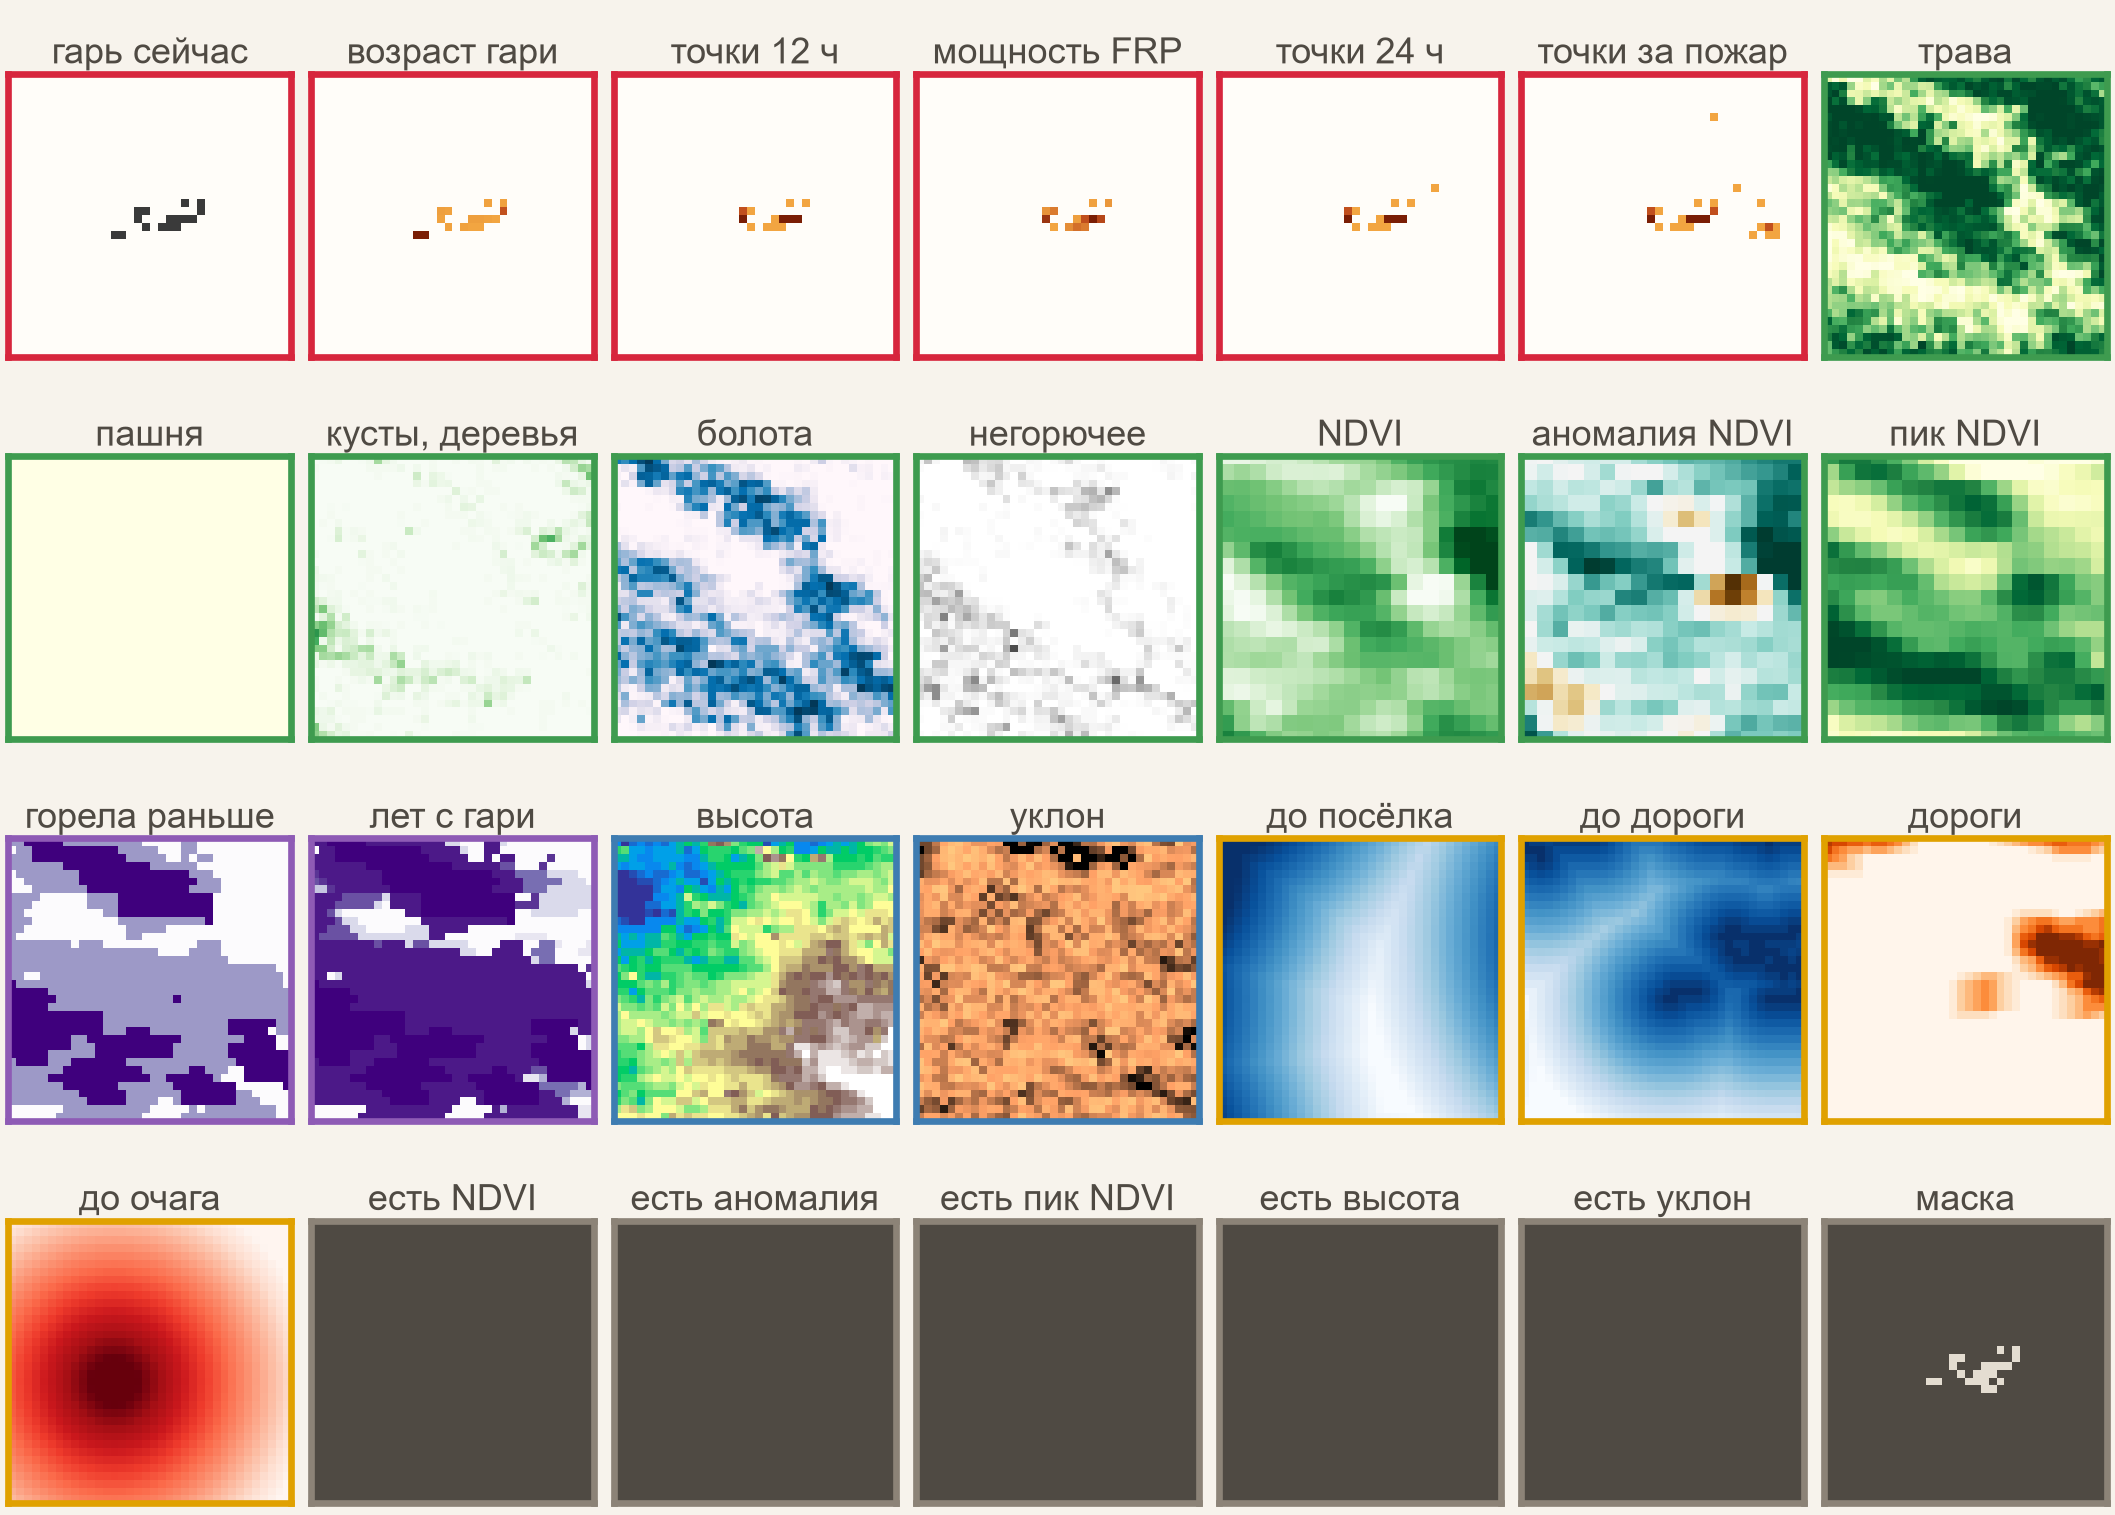
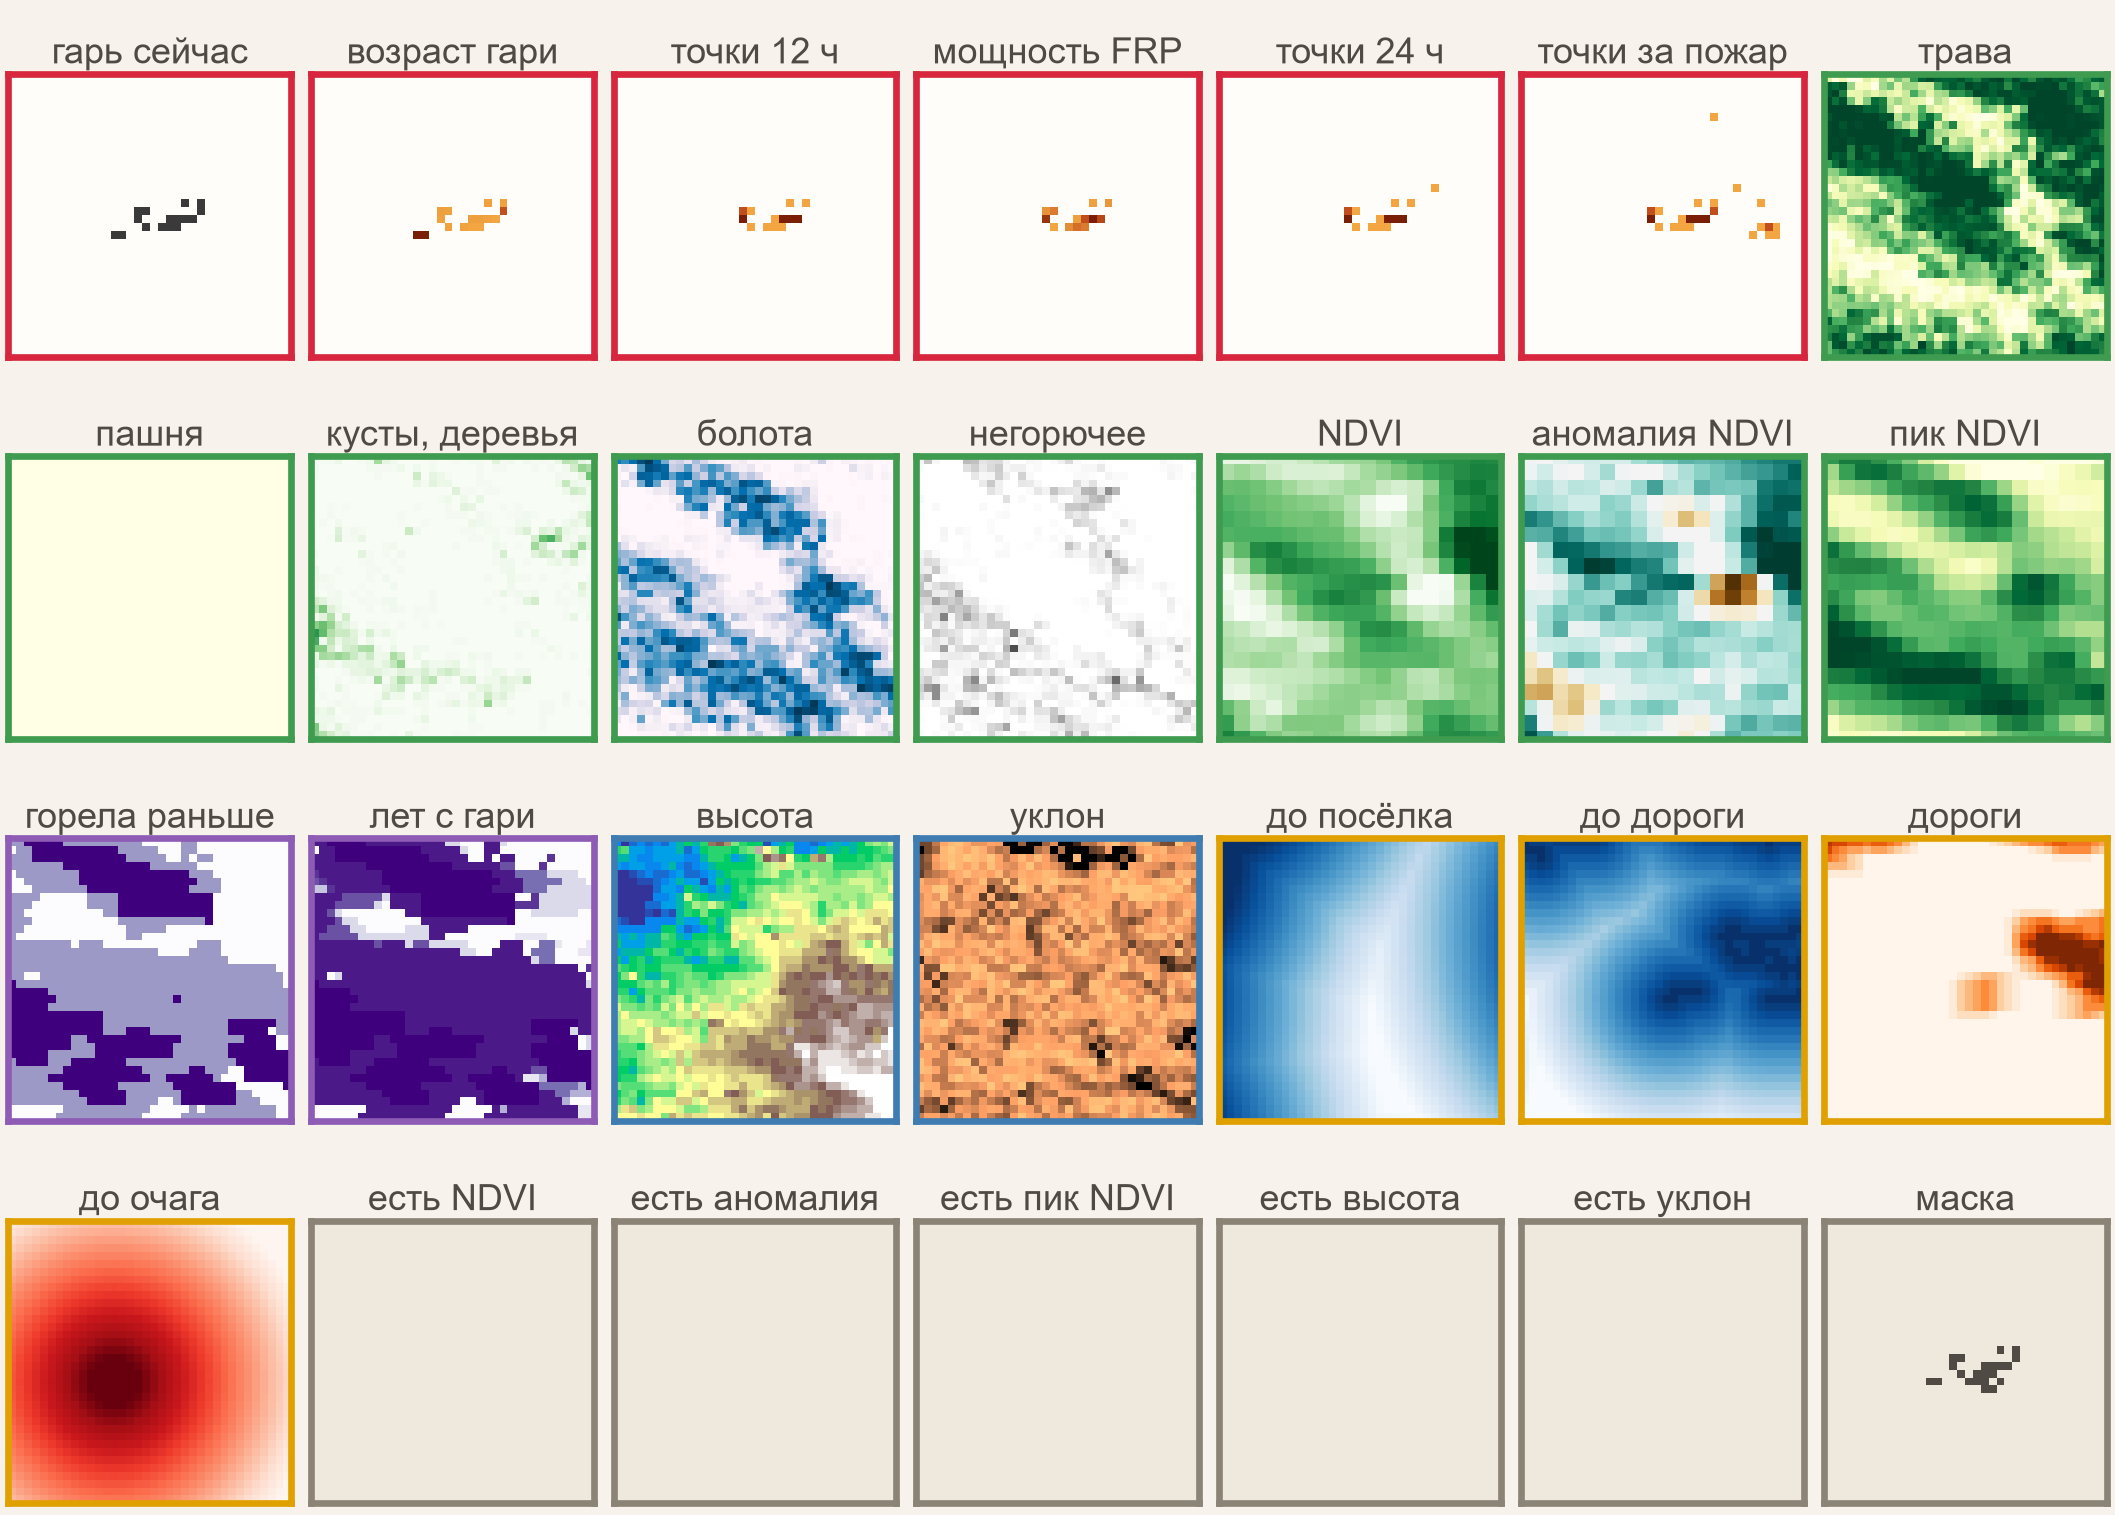
Slide 9: light data flags (1 = data, 0 = gap) with explanatory note
Claude-Session: https://claude.ai/code/session_01DdNrDyVJZY7CuEynqjVWna

Changed region(s): [[0.1248, 0.8066, 0.9986, 0.9927]]

diff --git a/presentation/tools/make_maps28.py b/presentation/tools/make_maps28.py
@@ -27,7 +27,7 @@ BG, INK, BODY, ACC, CARD, LINE, FOOT, ASH = "F7F3EC", "1B1A18", "4F4A43", "C2501
 GROUPS = {"fire": ("D7263D", "огонь сейчас"), "veg": ("3E9B4F", "растительность"), "prior": ("8E5BB5", "прошлые гари"),
           "relief": ("3E7CB1", "рельеф"), "people": ("E0A100", "люди"), "svc": ("8C8377", "служебные")}
 HOT = LinearSegmentedColormap.from_list("hot", ["#F2A541", "#C2501E", "#7A1E05"])
-FLAG = ListedColormap(["#E4DDD1", "#4F4A43"])
+FLAG = ListedColormap(["#4F4A43", "#EFE8DC"])            # 0 - пропуск (тёмное), 1 - данные есть (светлое)
 FIRE = ("burn_age_h", "af_count_12h", "af_frp_12h", "af_count_24h", "af_count_all")
 # канал, подпись на карте, строка списка, источник, группа, шкала
 MAPS = [("burned_frac", "гарь сейчас", "Доля гари в клетке", "VIIRS, MODIS, GFA", "fire", "ash"),
@@ -171,11 +171,15 @@ gx = 5.99
 sl.shapes.add_picture(png, Inches(gx), Inches(1.55), Inches(GW_IN), Inches(GH_IN))
 lx = gx
 for grp, (col, lab) in GROUPS.items():
-    box(lx, 6.73, 0.13, 0.13, col)
-    txt(lx + 0.19, 6.66, 1.3, 0.27, lab, 10, BODY)
+    box(lx, 6.69, 0.13, 0.13, col)
+    txt(lx + 0.19, 6.62, 1.3, 0.27, lab, 10, BODY)
     lx += 0.36 + len(lab) * 0.075
-txt(gx, 6.95, GW_IN, 0.25, "Пожар 3 апреля 2023 (тест) · участок 18 × 18 км из сцены 48 × 48 км · + 49 чисел погоды и состояния пожара",
-    10, FOOT)
+txt(gx, 6.87, GW_IN, 0.22, "Пожар 3 апреля 2023 (тест) · участок 18 × 18 км из сцены 48 × 48 км · + 49 чисел погоды и состояния пожара",
+    9.5, FOOT)
+txt(gx, 7.06, GW_IN, 0.22, "Флаги: 1 — данные есть (светлое), 0 — пропуск (тёмное). Здесь пропусков нет, поэтому флаги сплошные.",
+    9.5, FOOT)
+txt(gx, 7.24, GW_IN, 0.22, "При облаках и снеге флаг подсказывает сети: ноль в NDVI — «нет данных», а не «нет травы».",
+    9.5, FOOT)
 out = os.path.join(OUT, "slide9_28maps.pptx")
 prs.save(out)
 print("saved", png, out)
